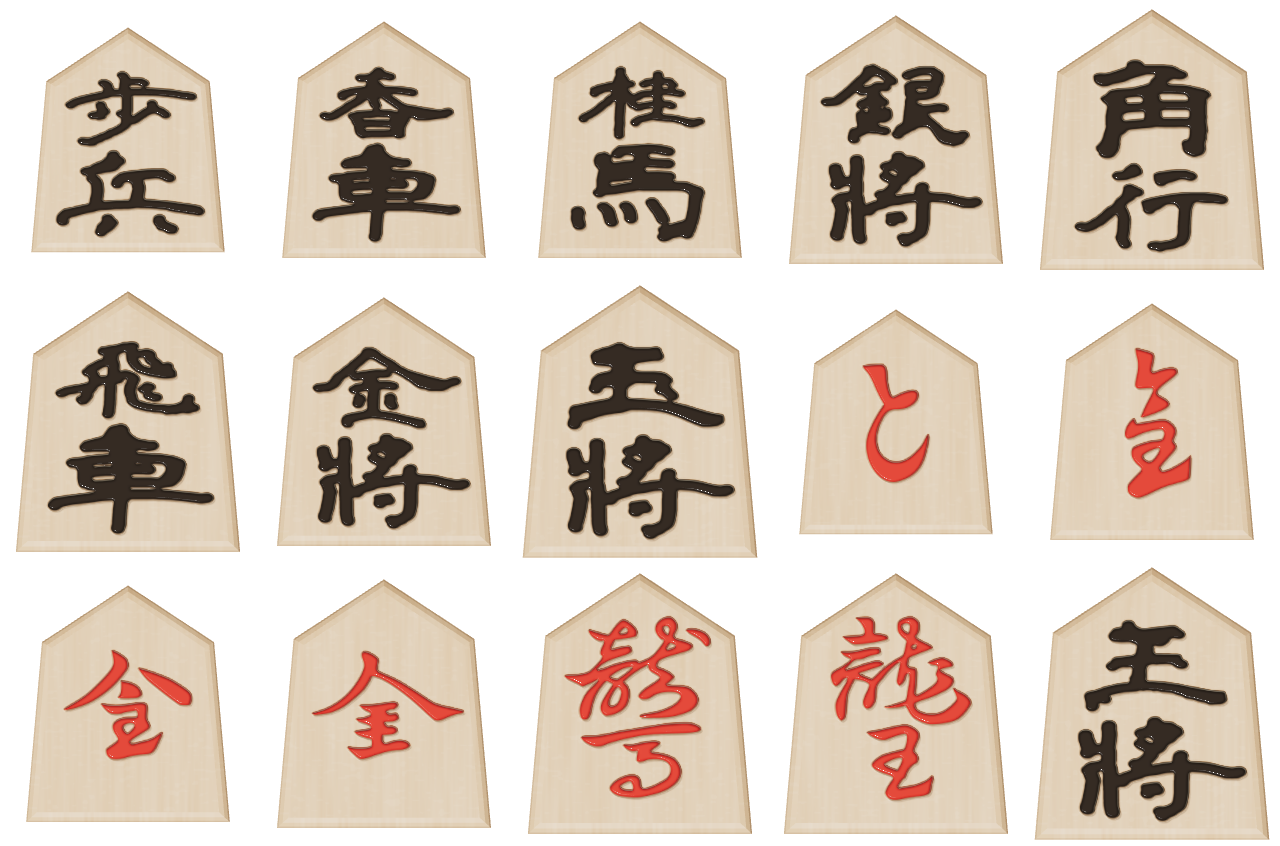
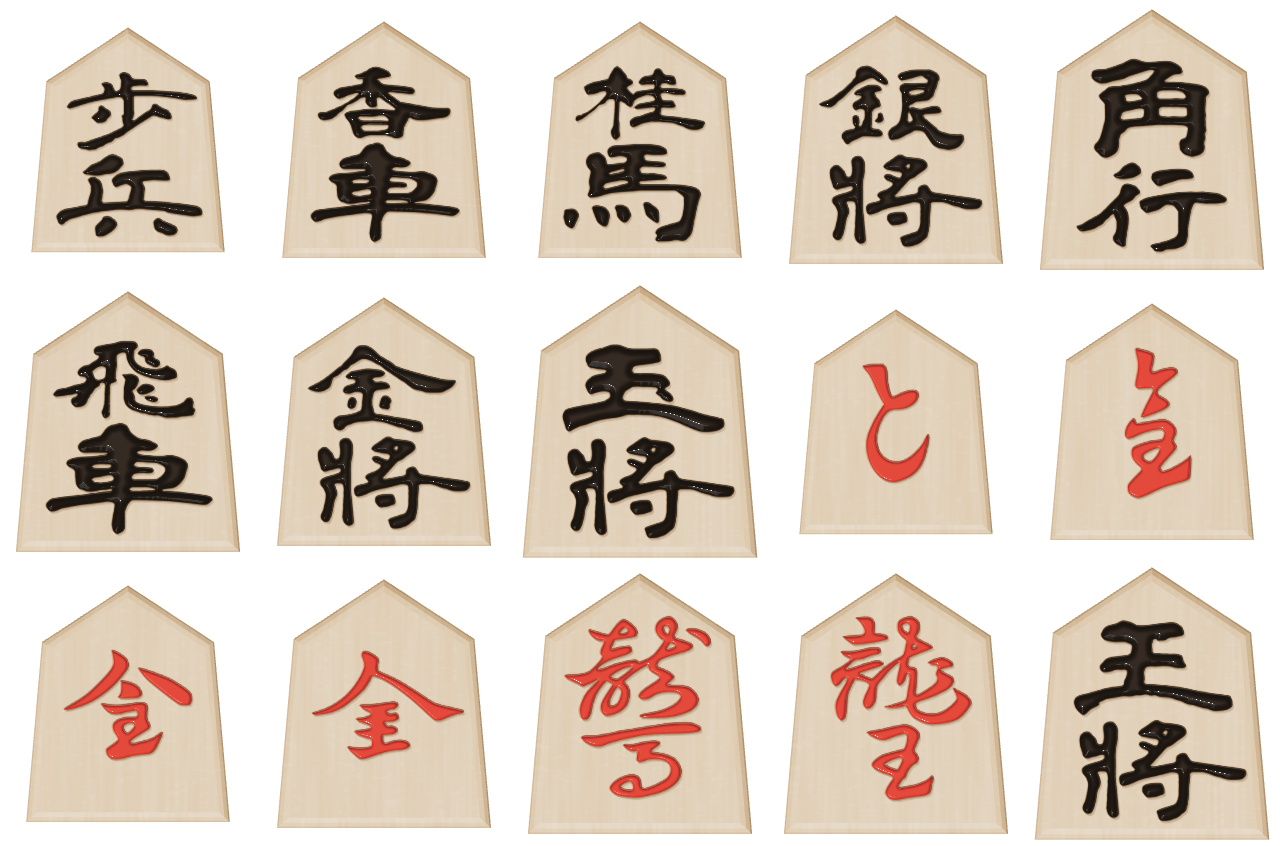
将棋3D駒：隷書を筆の書らしく（太さに比例した線・ハネを残す・盛り上げの丸い盛り・字の軸をそろえる）
Claude-Session: https://claude.ai/code/session_01EiWRAWLV8eg6m15v5x8gee

diff --git a/atlas/lazy.js b/atlas/lazy.js
@@ -5,7 +5,7 @@
      AtlasLazy.has3D(id) / hasPlay(id) / hasRules(id) — known before loading; AtlasLazy.loaded(id) */
 (function () {
 'use strict';
-const G = {"reversi": ["games/reversi.js?v=39", "rules/reversi.js?v=14"], "shogi": ["models/shogi.js?v=53", "games/shogi-play.js?v=33", "games/shogi.js?v=14", "rules/shogi.js?v=21"], "chess": ["models/chess.js?v=16", "games/chess.js?v=15", "rules/chess.js?v=7"], "backgammon": ["models/backgammon.js?v=118", "games/backgammon.js?v=22", "rules/backgammon.js?v=11"], "gomoku": ["models/goban.js?v=14", "games/gomoku.js?v=12", "rules/gomoku.js?v=9"], "go": ["models/goban.js?v=14", "games/go.js?v=7", "rules/go.js?v=7"], "hex": ["models/goban.js?v=14", "models/hex.js?v=2", "games/hex.js?v=6", "rules/hex.js?v=6"], "tafl": ["games/tafl.js?v=15", "rules/tafl.js?v=7"], "xiangqi": ["models/xiangqi.js?v=4", "games/xiangqi.js?v=13", "rules/xiangqi.js?v=6"], "janggi": ["models/xiangqi.js?v=4", "models/janggi.js?v=3", "games/janggi.js?v=5", "rules/janggi.js?v=2"], "checkers": ["models/checkers.js?v=17", "games/checkers.js?v=8", "rules/checkers.js?v=4"], "ugolki": ["models/checkers.js?v=17", "models/ugolki.js?v=4", "games/ugolki.js?v=8", "rules/ugolki.js?v=8"], "morris": ["models/morris.js?v=7", "games/morris-pieces.js?v=2", "games/morris.js?v=7", "rules/morris.js?v=5"], "connect4": ["models/connect4.js?v=5", "games/connect4-tiles.js?v=1", "games/connect4.js?v=5", "rules/connect4.js?v=3"], "mancala": ["models/mancala.js?v=5", "games/mancala.js?v=10", "rules/mancala.js?v=4"], "dots": ["models/dots.js?v=4", "games/dots.js?v=9", "rules/dots.js?v=3"], "ur": ["models/ur-dice.js?v=2", "models/ur.js?v=4", "games/ur-kit.js?v=15", "games/ur.js?v=11", "rules/ur.js?v=16"], "fanorona": ["models/fanorona.js?v=4", "games/fanorona.js?v=6", "rules/fanorona.js?v=8"], "konane": ["models/konane.js?v=7", "games/konane.js?v=11", "rules/konane.js?v=5"], "amazons": ["models/amazons.js?v=7", "games/amazons.js?v=10", "rules/amazons.js?v=4"], "senet": ["models/ur-dice.js?v=2", "models/senet.js?v=10", "games/senet-kit.js?v=5", "games/senet.js?v=16", "rules/senet.js?v=8"], "agon": ["models/agon.js?v=4", "games/agon.js?v=11", "rules/agon.js?v=5"], "alquerque": ["models/alquerque.js?v=3", "rules/alquerque.js?v=6"], "ludo": ["../ludo/engine.js?v=3", "../ludo/house.js?v=7", "../ludo/board2d.js?v=7", "../ludo/board-art.js?v=3", "models/ludo.js?v=10", "games/ludo.js?v=28", "rules/ludo.js?v=3"], "carrom": ["../carrom/engine.js?v=6", "models/carrom.js?v=17", "games/carrom.js?v=37", "rules/carrom.js?v=8"], "crokinole": ["../carrom/engine.js?v=6", "games/carrom.js?v=37", "../crokinole/engine.js?v=3", "models/crokinole.js?v=12", "games/crokinole.js?v=14", "rules/crokinole.js?v=4"], "hockey": ["../hockey/engine.js?v=13", "models/hockey.js?v=8", "games/hockey.js?v=19", "rules/hockey.js?v=7"], "peg": ["../peg/engine.js?v=1", "../peg/i18n.js?v=6", "models/peg.js?v=6", "games/peg.js?v=1", "rules/peg.js?v=4"]};
+const G = {"reversi": ["games/reversi.js?v=39", "rules/reversi.js?v=14"], "shogi": ["models/shogi.js?v=54", "games/shogi-play.js?v=33", "games/shogi.js?v=14", "rules/shogi.js?v=21"], "chess": ["models/chess.js?v=16", "games/chess.js?v=15", "rules/chess.js?v=7"], "backgammon": ["models/backgammon.js?v=118", "games/backgammon.js?v=22", "rules/backgammon.js?v=11"], "gomoku": ["models/goban.js?v=14", "games/gomoku.js?v=12", "rules/gomoku.js?v=9"], "go": ["models/goban.js?v=14", "games/go.js?v=7", "rules/go.js?v=7"], "hex": ["models/goban.js?v=14", "models/hex.js?v=2", "games/hex.js?v=6", "rules/hex.js?v=6"], "tafl": ["games/tafl.js?v=15", "rules/tafl.js?v=7"], "xiangqi": ["models/xiangqi.js?v=4", "games/xiangqi.js?v=13", "rules/xiangqi.js?v=6"], "janggi": ["models/xiangqi.js?v=4", "models/janggi.js?v=3", "games/janggi.js?v=5", "rules/janggi.js?v=2"], "checkers": ["models/checkers.js?v=17", "games/checkers.js?v=8", "rules/checkers.js?v=4"], "ugolki": ["models/checkers.js?v=17", "models/ugolki.js?v=4", "games/ugolki.js?v=8", "rules/ugolki.js?v=8"], "morris": ["models/morris.js?v=7", "games/morris-pieces.js?v=2", "games/morris.js?v=7", "rules/morris.js?v=5"], "connect4": ["models/connect4.js?v=5", "games/connect4-tiles.js?v=1", "games/connect4.js?v=5", "rules/connect4.js?v=3"], "mancala": ["models/mancala.js?v=5", "games/mancala.js?v=10", "rules/mancala.js?v=4"], "dots": ["models/dots.js?v=4", "games/dots.js?v=9", "rules/dots.js?v=3"], "ur": ["models/ur-dice.js?v=2", "models/ur.js?v=4", "games/ur-kit.js?v=15", "games/ur.js?v=11", "rules/ur.js?v=16"], "fanorona": ["models/fanorona.js?v=4", "games/fanorona.js?v=6", "rules/fanorona.js?v=8"], "konane": ["models/konane.js?v=7", "games/konane.js?v=11", "rules/konane.js?v=5"], "amazons": ["models/amazons.js?v=7", "games/amazons.js?v=10", "rules/amazons.js?v=4"], "senet": ["models/ur-dice.js?v=2", "models/senet.js?v=10", "games/senet-kit.js?v=5", "games/senet.js?v=16", "rules/senet.js?v=8"], "agon": ["models/agon.js?v=4", "games/agon.js?v=11", "rules/agon.js?v=5"], "alquerque": ["models/alquerque.js?v=3", "rules/alquerque.js?v=6"], "ludo": ["../ludo/engine.js?v=3", "../ludo/house.js?v=7", "../ludo/board2d.js?v=7", "../ludo/board-art.js?v=3", "models/ludo.js?v=10", "games/ludo.js?v=28", "rules/ludo.js?v=3"], "carrom": ["../carrom/engine.js?v=6", "models/carrom.js?v=17", "games/carrom.js?v=37", "rules/carrom.js?v=8"], "crokinole": ["../carrom/engine.js?v=6", "games/carrom.js?v=37", "../crokinole/engine.js?v=3", "models/crokinole.js?v=12", "games/crokinole.js?v=14", "rules/crokinole.js?v=4"], "hockey": ["../hockey/engine.js?v=13", "models/hockey.js?v=8", "games/hockey.js?v=19", "rules/hockey.js?v=7"], "peg": ["../peg/engine.js?v=1", "../peg/i18n.js?v=6", "models/peg.js?v=6", "games/peg.js?v=1", "rules/peg.js?v=4"]};
 const F = {"reversi": {"t3": true, "play": true, "rules": true}, "shogi": {"t3": true, "play": true, "rules": true}, "chess": {"t3": true, "play": true, "rules": true}, "backgammon": {"t3": true, "play": true, "rules": true}, "gomoku": {"t3": true, "play": true, "rules": true}, "go": {"t3": true, "play": true, "rules": true}, "hex": {"t3": true, "play": true, "rules": true}, "tafl": {"t3": true, "play": true, "rules": true}, "xiangqi": {"t3": true, "play": true, "rules": true}, "janggi": {"t3": true, "play": true, "rules": true}, "checkers": {"t3": true, "play": true, "rules": true}, "ugolki": {"t3": true, "play": true, "rules": true}, "morris": {"t3": true, "play": true, "rules": true}, "connect4": {"t3": true, "play": true, "rules": true}, "mancala": {"t3": true, "play": true, "rules": true}, "dots": {"t3": true, "play": true, "rules": true}, "ur": {"t3": true, "play": true, "rules": true}, "fanorona": {"t3": true, "play": true, "rules": true}, "konane": {"t3": true, "play": true, "rules": true}, "amazons": {"t3": true, "play": true, "rules": true}, "senet": {"t3": true, "play": true, "rules": true}, "agon": {"t3": true, "play": true, "rules": true}, "alquerque": {"t3": true, "play": false, "rules": true}, "ludo": {"t3": true, "play": true, "rules": true}, "carrom": {"t3": true, "play": true, "rules": true}, "crokinole": {"t3": true, "play": true, "rules": true}, "hockey": {"t3": true, "play": true, "rules": true}, "peg": {"t3": true, "play": true, "rules": true}};
 const done = new Set(), loading = new Map(), ok = new Set();
 function load(src) {

diff --git a/dots/index.html b/dots/index.html
@@ -2299,7 +2299,7 @@ document.querySelector('#rsResume').onclick = () => { document.querySelector('#r
   const f = document.createElement('link'); f.rel = 'stylesheet'; f.href = 'https://fonts.googleapis.com/css2?family=RocknRoll+One&family=Zen+Maru+Gothic:wght@500;700;900&family=Fredoka:wght@600;700&family=Kalam:wght@400;700&family=Zen+Kurenaido&family=Nanum+Pen+Script&family=Long+Cang&family=Aref+Ruqaa:wght@700&display=swap'; document.head.appendChild(f);   // (Kalam … Aref Ruqaa: the handwritten box initials and tally on the notebook page)
   const load = src => new Promise((res, rej) => { const s = document.createElement('script'); s.src = src; s.onload = res; s.onerror = rej; document.body.appendChild(s); });
   if (window.AtlasLoading) { AtlasLoading.show(); setTimeout(() => AtlasLoading.hide(), 12000); }   // safety net
-  load('https://cdnjs.cloudflare.com/ajax/libs/three.js/r128/three.min.js').then(() => load('../atlas/img/tex/baked.js?v=1')).then(() => load('../atlas/table3d.js?v=152')).then(() => load('../atlas/tables3d.js?v=73')).then(() => load('../atlas/skin/common.js?v=71')).then(() => load('../atlas/models/dots.js?v=3l14')).then(() => load('../atlas/skin/dots.js?v=7l14'))
+  load('https://cdnjs.cloudflare.com/ajax/libs/three.js/r128/three.min.js').then(() => load('../atlas/img/tex/baked.js?v=1')).then(() => load('../atlas/table3d.js?v=152')).then(() => load('../atlas/tables3d.js?v=74')).then(() => load('../atlas/skin/common.js?v=71')).then(() => load('../atlas/models/dots.js?v=3l14')).then(() => load('../atlas/skin/dots.js?v=7l14'))
     .catch(() => { document.documentElement.classList.remove('atlas-skin'); if (window.AtlasLoading) AtlasLoading.hide(); });
 })();
 </script>

diff --git a/ur/index.html b/ur/index.html
@@ -1029,7 +1029,7 @@ html:not([lang=ja]):not([lang=zh]):not([lang="zh-TW"]):not([lang=ko]) .result-bi
   const f = document.createElement('link'); f.rel = 'stylesheet'; f.href = 'https://fonts.googleapis.com/css2?family=RocknRoll+One&family=Zen+Maru+Gothic:wght@500;700;900&family=Fredoka:wght@600;700&display=swap'; document.head.appendChild(f);
   const load = src => new Promise((res, rej) => { const s = document.createElement('script'); s.src = src; s.onload = res; s.onerror = rej; document.body.appendChild(s); });
   if (window.AtlasLoading) { AtlasLoading.show(); setTimeout(() => AtlasLoading.hide(), 12000); }   // safety net
-  load('https://cdnjs.cloudflare.com/ajax/libs/three.js/r128/three.min.js').then(() => load('../atlas/img/tex/baked.js?v=1')).then(() => load('../atlas/table3d.js?v=152')).then(() => load('../atlas/tables3d.js?v=73')).then(() => load('../atlas/skin/common.js?v=71')).then(() => load('../atlas/models/ur-dice.js?v=2l14')).then(() => load('../atlas/models/ur.js?v=3l14')).then(() => load('../atlas/skin/ur.js?v=14l14'))
+  load('https://cdnjs.cloudflare.com/ajax/libs/three.js/r128/three.min.js').then(() => load('../atlas/img/tex/baked.js?v=1')).then(() => load('../atlas/table3d.js?v=152')).then(() => load('../atlas/tables3d.js?v=74')).then(() => load('../atlas/skin/common.js?v=71')).then(() => load('../atlas/models/ur-dice.js?v=2l14')).then(() => load('../atlas/models/ur.js?v=3l14')).then(() => load('../atlas/skin/ur.js?v=14l14'))
     .catch(() => { const u = new URL(location.href); u.searchParams.delete('skin'); location.replace(u.href); });   // (the 3D files are missing: the plain 2D page)
 })();
 </script>

diff --git a/connect4/index.html b/connect4/index.html
@@ -3390,7 +3390,7 @@ document.addEventListener('keydown', e => {
   const f = document.createElement('link'); f.rel = 'stylesheet'; f.href = 'https://fonts.googleapis.com/css2?family=RocknRoll+One&family=Zen+Maru+Gothic:wght@500;700;900&family=Fredoka:wght@600;700&display=swap'; document.head.appendChild(f);
   const load = src => new Promise((res, rej) => { const s = document.createElement('script'); s.src = src; s.onload = res; s.onerror = rej; document.body.appendChild(s); });
   if (window.AtlasLoading) { AtlasLoading.show(); setTimeout(() => AtlasLoading.hide(), 12000); }   // safety net
-  load('https://cdnjs.cloudflare.com/ajax/libs/three.js/r128/three.min.js').then(() => load('../atlas/img/tex/baked.js?v=1')).then(() => load('../atlas/table3d.js?v=152')).then(() => load('../atlas/tables3d.js?v=73')).then(() => load('../atlas/skin/common.js?v=71')).then(() => load('../atlas/models/connect4.js?v=5l14')).then(() => load('../atlas/games/connect4-tiles.js?v=1l14')).then(() => load('../atlas/skin/connect4.js?v=6l14-aim'))
+  load('https://cdnjs.cloudflare.com/ajax/libs/three.js/r128/three.min.js').then(() => load('../atlas/img/tex/baked.js?v=1')).then(() => load('../atlas/table3d.js?v=152')).then(() => load('../atlas/tables3d.js?v=74')).then(() => load('../atlas/skin/common.js?v=71')).then(() => load('../atlas/models/connect4.js?v=5l14')).then(() => load('../atlas/games/connect4-tiles.js?v=1l14')).then(() => load('../atlas/skin/connect4.js?v=6l14-aim'))
     .catch(() => { document.documentElement.classList.remove('atlas-skin'); if (window.AtlasLoading) AtlasLoading.hide(); });
 })();
 </script>

diff --git a/morris/index.html b/morris/index.html
@@ -3897,7 +3897,7 @@ window.addEventListener('resize', () => renderFx());
   const f = document.createElement('link'); f.rel = 'stylesheet'; f.href = 'https://fonts.googleapis.com/css2?family=RocknRoll+One&family=Zen+Maru+Gothic:wght@500;700;900&family=Fredoka:wght@600;700&display=swap'; document.head.appendChild(f);
   const load = src => new Promise((res, rej) => { const s = document.createElement('script'); s.src = src; s.onload = res; s.onerror = rej; document.body.appendChild(s); });
   if (window.AtlasLoading) { AtlasLoading.show(); setTimeout(() => AtlasLoading.hide(), 12000); }   // safety net
-  load('https://cdnjs.cloudflare.com/ajax/libs/three.js/r128/three.min.js').then(() => load('../atlas/img/tex/baked.js?v=1')).then(() => load('../atlas/table3d.js?v=152')).then(() => load('../atlas/tables3d.js?v=73')).then(() => load('../atlas/skin/common.js?v=71')).then(() => load('../atlas/models/morris.js?v=6l14')).then(() => load('../atlas/games/morris-pieces.js?v=2l14')).then(() => load('../atlas/skin/morris.js?v=6l15'))
+  load('https://cdnjs.cloudflare.com/ajax/libs/three.js/r128/three.min.js').then(() => load('../atlas/img/tex/baked.js?v=1')).then(() => load('../atlas/table3d.js?v=152')).then(() => load('../atlas/tables3d.js?v=74')).then(() => load('../atlas/skin/common.js?v=71')).then(() => load('../atlas/models/morris.js?v=6l14')).then(() => load('../atlas/games/morris-pieces.js?v=2l14')).then(() => load('../atlas/skin/morris.js?v=6l15'))
     .catch(() => { document.documentElement.classList.remove('atlas-skin'); if (window.AtlasLoading) AtlasLoading.hide(); });
 })();
 </script>

diff --git a/senet/index.html b/senet/index.html
@@ -1030,7 +1030,7 @@ html:not([lang=ja]):not([lang=zh]):not([lang=zh-TW]):not([lang=ko]) .result-big{
   const f = document.createElement('link'); f.rel = 'stylesheet'; f.href = 'https://fonts.googleapis.com/css2?family=RocknRoll+One&family=Zen+Maru+Gothic:wght@500;700;900&family=Fredoka:wght@600;700&display=swap'; document.head.appendChild(f);
   const load = src => new Promise((res, rej) => { const s = document.createElement('script'); s.src = src; s.onload = res; s.onerror = rej; document.body.appendChild(s); });
   if (window.AtlasLoading) { AtlasLoading.show(); setTimeout(() => AtlasLoading.hide(), 12000); }   // safety net
-  load('https://cdnjs.cloudflare.com/ajax/libs/three.js/r128/three.min.js').then(() => load('../atlas/img/tex/baked.js?v=1')).then(() => load('../atlas/table3d.js?v=152')).then(() => load('../atlas/tables3d.js?v=73')).then(() => load('../atlas/skin/common.js?v=71')).then(() => load('../atlas/models/senet.js?v=10l14')).then(() => load('../atlas/skin/senet.js?v=10l14'))
+  load('https://cdnjs.cloudflare.com/ajax/libs/three.js/r128/three.min.js').then(() => load('../atlas/img/tex/baked.js?v=1')).then(() => load('../atlas/table3d.js?v=152')).then(() => load('../atlas/tables3d.js?v=74')).then(() => load('../atlas/skin/common.js?v=71')).then(() => load('../atlas/models/senet.js?v=10l14')).then(() => load('../atlas/skin/senet.js?v=10l14'))
     .catch(() => { const u = new URL(location.href); u.searchParams.delete('skin'); location.replace(u.href); });   // (the 3D files are missing: the plain 2D page)
 })();
 </script>

diff --git a/fanorona/index.html b/fanorona/index.html
@@ -1687,7 +1687,7 @@ body.lt-on .reserve .onb.on{border-color:var(--accent);box-shadow:0 0 0 1px var(
   const f = document.createElement('link'); f.rel = 'stylesheet'; f.href = 'https://fonts.googleapis.com/css2?family=RocknRoll+One&family=Zen+Maru+Gothic:wght@500;700;900&family=Fredoka:wght@600;700&display=swap'; document.head.appendChild(f);
   const load = src => new Promise((res, rej) => { const s = document.createElement('script'); s.src = src; s.onload = res; s.onerror = rej; document.body.appendChild(s); });
   if (window.AtlasLoading) { AtlasLoading.show(); setTimeout(() => AtlasLoading.hide(), 12000); }   // safety net
-  load('https://cdnjs.cloudflare.com/ajax/libs/three.js/r128/three.min.js').then(() => load('../atlas/img/tex/baked.js?v=1')).then(() => load('../atlas/table3d.js?v=152')).then(() => load('../atlas/tables3d.js?v=73')).then(() => load('../atlas/skin/common.js?v=71')).then(() => load('../atlas/models/fanorona.js?v=3l14')).then(() => load('../atlas/skin/fanorona.js?v=6l14'))
+  load('https://cdnjs.cloudflare.com/ajax/libs/three.js/r128/three.min.js').then(() => load('../atlas/img/tex/baked.js?v=1')).then(() => load('../atlas/table3d.js?v=152')).then(() => load('../atlas/tables3d.js?v=74')).then(() => load('../atlas/skin/common.js?v=71')).then(() => load('../atlas/models/fanorona.js?v=3l14')).then(() => load('../atlas/skin/fanorona.js?v=6l14'))
     .catch(() => { document.documentElement.classList.remove('atlas-skin'); if (window.AtlasLoading) AtlasLoading.hide(); });
 })();
 </script>

diff --git a/mancala/index.html b/mancala/index.html
@@ -1586,7 +1586,7 @@ html[data-sk=ocean] .seed{box-shadow:0 calc(var(--u) * .025) calc(var(--u) * .04
   const f = document.createElement('link'); f.rel = 'stylesheet'; f.href = 'https://fonts.googleapis.com/css2?family=RocknRoll+One&family=Zen+Maru+Gothic:wght@500;700;900&family=Fredoka:wght@600;700&display=swap'; document.head.appendChild(f);
   const load = src => new Promise((res, rej) => { const s = document.createElement('script'); s.src = src; s.onload = res; s.onerror = rej; document.body.appendChild(s); });
   if (window.AtlasLoading) { AtlasLoading.show(); setTimeout(() => AtlasLoading.hide(), 12000); }   // safety net
-  load('https://cdnjs.cloudflare.com/ajax/libs/three.js/r128/three.min.js').then(() => load('../atlas/img/tex/baked.js?v=1')).then(() => load('../atlas/table3d.js?v=152')).then(() => load('../atlas/tables3d.js?v=73')).then(() => load('../atlas/skin/common.js?v=71')).then(() => load('../atlas/models/mancala.js?v=4l14')).then(() => load('../atlas/skin/mancala.js?v=10l14'))
+  load('https://cdnjs.cloudflare.com/ajax/libs/three.js/r128/three.min.js').then(() => load('../atlas/img/tex/baked.js?v=1')).then(() => load('../atlas/table3d.js?v=152')).then(() => load('../atlas/tables3d.js?v=74')).then(() => load('../atlas/skin/common.js?v=71')).then(() => load('../atlas/models/mancala.js?v=4l14')).then(() => load('../atlas/skin/mancala.js?v=10l14'))
     .catch(() => { document.documentElement.classList.remove('atlas-skin'); if (window.AtlasLoading) AtlasLoading.hide(); });
 })();
 </script>

diff --git a/gomoku/index.html b/gomoku/index.html
@@ -1445,7 +1445,7 @@ body.skin-ink .st.b{background:radial-gradient(circle at 34% 28%,#8a8f98 0%,#3c4
   const f = document.createElement('link'); f.rel = 'stylesheet'; f.href = 'https://fonts.googleapis.com/css2?family=RocknRoll+One&family=Zen+Maru+Gothic:wght@500;700;900&family=Fredoka:wght@600;700&display=swap'; document.head.appendChild(f);
   const load = src => new Promise((res, rej) => { const s = document.createElement('script'); s.src = src; s.onload = res; s.onerror = rej; document.body.appendChild(s); });
   if (window.AtlasLoading) { AtlasLoading.show(); setTimeout(() => AtlasLoading.hide(), 12000); }   // safety net
-  load('https://cdnjs.cloudflare.com/ajax/libs/three.js/r128/three.min.js').then(() => load('../atlas/img/tex/baked.js?v=1')).then(() => load('../atlas/table3d.js?v=152')).then(() => load('../atlas/tables3d.js?v=73')).then(() => load('../atlas/skin/common.js?v=71')).then(() => load('../atlas/models/goban.js?v=11l14')).then(() => load('../atlas/skin/gomoku.js?v=4l14'))
+  load('https://cdnjs.cloudflare.com/ajax/libs/three.js/r128/three.min.js').then(() => load('../atlas/img/tex/baked.js?v=1')).then(() => load('../atlas/table3d.js?v=152')).then(() => load('../atlas/tables3d.js?v=74')).then(() => load('../atlas/skin/common.js?v=71')).then(() => load('../atlas/models/goban.js?v=11l14')).then(() => load('../atlas/skin/gomoku.js?v=4l14'))
     .catch(() => { document.documentElement.classList.remove('atlas-skin'); if (window.AtlasLoading) AtlasLoading.hide(); });
 })();
 </script>

diff --git a/ugolki/index.html b/ugolki/index.html
@@ -1393,7 +1393,7 @@ html:is([data-bd=gzhel],[data-bd=birch]) .reserve .rsv-plate .rsv-w:not(.hot) b{
   const f = document.createElement('link'); f.rel = 'stylesheet'; f.href = 'https://fonts.googleapis.com/css2?family=RocknRoll+One&family=Zen+Maru+Gothic:wght@500;700;900&family=Fredoka:wght@600;700&display=swap'; document.head.appendChild(f);
   const load = src => new Promise((res, rej) => { const s = document.createElement('script'); s.src = src; s.onload = res; s.onerror = rej; document.body.appendChild(s); });
   if (window.AtlasLoading) { AtlasLoading.show(); setTimeout(() => AtlasLoading.hide(), 12000); }   // safety net
-  load('https://cdnjs.cloudflare.com/ajax/libs/three.js/r128/three.min.js').then(() => load('../atlas/img/tex/baked.js?v=1')).then(() => load('../atlas/table3d.js?v=152')).then(() => load('../atlas/tables3d.js?v=73')).then(() => load('../atlas/skin/common.js?v=71')).then(() => load('../atlas/models/ugolki.js?v=4l14')).then(() => load('../atlas/skin/ugolki.js?v=2l14'))
+  load('https://cdnjs.cloudflare.com/ajax/libs/three.js/r128/three.min.js').then(() => load('../atlas/img/tex/baked.js?v=1')).then(() => load('../atlas/table3d.js?v=152')).then(() => load('../atlas/tables3d.js?v=74')).then(() => load('../atlas/skin/common.js?v=71')).then(() => load('../atlas/models/ugolki.js?v=4l14')).then(() => load('../atlas/skin/ugolki.js?v=2l14'))
     .catch(() => { document.documentElement.classList.remove('atlas-skin'); if (window.AtlasLoading) AtlasLoading.hide(); });
 })();
 </script>

diff --git a/alquerque/index.html b/alquerque/index.html
@@ -1689,7 +1689,7 @@ window.OL_VARIANTS = ['alq', 'alqf']; window.OL_DB_PREFIX = 'alq/';
   const f = document.createElement('link'); f.rel = 'stylesheet'; f.href = 'https://fonts.googleapis.com/css2?family=RocknRoll+One&family=Zen+Maru+Gothic:wght@500;700;900&family=Fredoka:wght@600;700&display=swap'; document.head.appendChild(f);
   const load = src => new Promise((res, rej) => { const s = document.createElement('script'); s.src = src; s.onload = res; s.onerror = rej; document.body.appendChild(s); });
   if (window.AtlasLoading) { AtlasLoading.show(); setTimeout(() => AtlasLoading.hide(), 12000); }   // safety net
-  load('https://cdnjs.cloudflare.com/ajax/libs/three.js/r128/three.min.js').then(() => load('../atlas/img/tex/baked.js?v=1')).then(() => load('../atlas/table3d.js?v=152')).then(() => load('../atlas/tables3d.js?v=73')).then(() => load('../atlas/skin/common.js?v=71')).then(() => load('../atlas/models/alquerque.js?v=3l14')).then(() => load('../atlas/skin/fanorona.js?v=6l14'))
+  load('https://cdnjs.cloudflare.com/ajax/libs/three.js/r128/three.min.js').then(() => load('../atlas/img/tex/baked.js?v=1')).then(() => load('../atlas/table3d.js?v=152')).then(() => load('../atlas/tables3d.js?v=74')).then(() => load('../atlas/skin/common.js?v=71')).then(() => load('../atlas/models/alquerque.js?v=3l14')).then(() => load('../atlas/skin/fanorona.js?v=6l14'))
     .catch(() => { document.documentElement.classList.remove('atlas-skin'); if (window.AtlasLoading) AtlasLoading.hide(); });
 })();
 </script>

diff --git a/chess/index.html b/chess/index.html
@@ -1589,7 +1589,7 @@ body.in-online .coach,body.in-online #btnMistakes{display:none!important}
   const f = document.createElement('link'); f.rel = 'stylesheet'; f.href = 'https://fonts.googleapis.com/css2?family=RocknRoll+One&family=Zen+Maru+Gothic:wght@500;700;900&family=Fredoka:wght@600;700&display=swap'; document.head.appendChild(f);
   const load = src => new Promise((res, rej) => { const s = document.createElement('script'); s.src = src; s.onload = res; s.onerror = rej; document.body.appendChild(s); });
   if (window.AtlasLoading) { AtlasLoading.show(); setTimeout(() => AtlasLoading.hide(), 12000); }   // safety net
-  load('https://cdnjs.cloudflare.com/ajax/libs/three.js/r128/three.min.js').then(() => load('../atlas/img/tex/baked.js?v=1')).then(() => load('../atlas/table3d.js?v=152')).then(() => load('../atlas/tables3d.js?v=73')).then(() => load('../atlas/skin/common.js?v=71')).then(() => load('../atlas/models/chess.js?v=16l14')).then(() => load('../atlas/skin/chess.js?v=11l14'))
+  load('https://cdnjs.cloudflare.com/ajax/libs/three.js/r128/three.min.js').then(() => load('../atlas/img/tex/baked.js?v=1')).then(() => load('../atlas/table3d.js?v=152')).then(() => load('../atlas/tables3d.js?v=74')).then(() => load('../atlas/skin/common.js?v=71')).then(() => load('../atlas/models/chess.js?v=16l14')).then(() => load('../atlas/skin/chess.js?v=11l14'))
     .catch(() => { document.documentElement.classList.remove('atlas-skin'); if (window.AtlasLoading) AtlasLoading.hide(); });
 })();
 </script>
